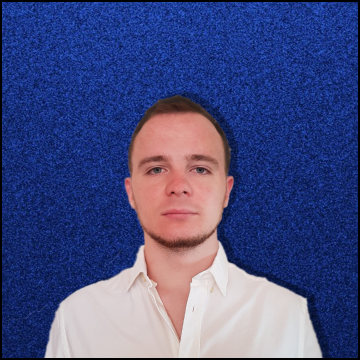
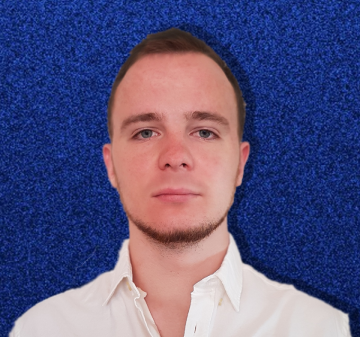
Update photo

diff --git a/index.html b/index.html
@@ -208,7 +208,7 @@
 			Skills
 		</h1>
 		
-		<h2 class="font-light mt-0">I have experience at the following skills:</h2>
+		<h2 class="font-light mt-0">I have the following skills:</h2>
 		
 	</div>
 	<div class="w-full flex flex-col">
